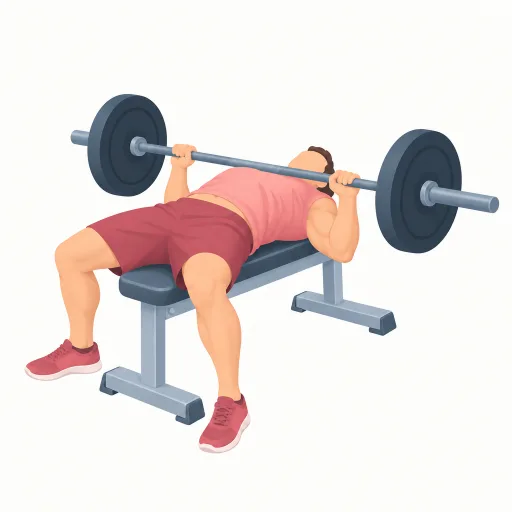
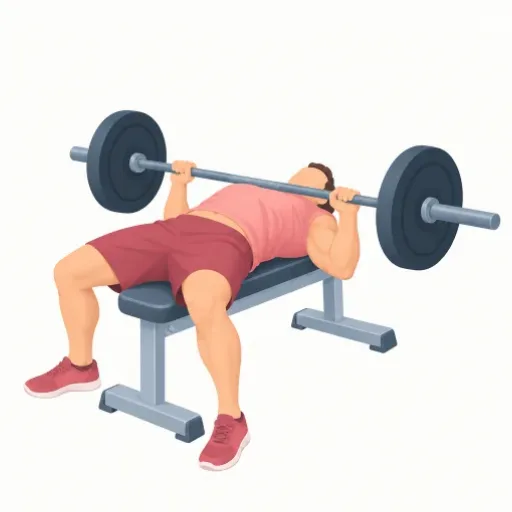
Press de banca: imagen final alineada con la inicial para que el banco no se mueva al alternarlas

Changed region(s): [[0.0312, 0.1875, 1.0, 0.9375], [0.4688, 0.6875, 0.5, 0.7188]]

diff --git a/CLAUDE.md b/CLAUDE.md
@@ -90,5 +90,5 @@ Primero PWA para uso propio; después App Store (iPhone). Si funciona, se podrí
 ## Imágenes de ejercicios
 
 - **Cómo se generan:** a partir de las dos fotos (posición inicial y final) de free-exercise-db (dominio público, Unlicense), redibujadas con OpenAI (`images.edit`, el mismo modelo y la misma clave que usa china-history, en `china-history-api/.env`; la clave solo se usa en local, nunca en el repo ni en la app). La imagen inicial sale de la foto 0 y la final de la ilustración inicial más la foto 1, para que figura y encuadre no cambien entre las dos. Estilo: ilustración plana, atleta sin cara con camiseta salmón y pantalón rosa oscuro, material en gris azulado, **sin fondo de gimnasio** y solo el material del ejercicio (sacarlo del campo `equipment`; si se lista material genérico en el prompt, el modelo lo dibuja todo).
-- **Dónde viven:** `apps/mobile/assets/exercises/<nombre-del-ejercicio>_0.webp` y `_1.webp`, a 512 px y unos 12 KB cada una, y se registran por nombre en `lib/exercise-images.ts`. De momento solo está «Press de banca con barra»; el resto se hará en tandas cuando guste el resultado. Pendiente: emparejar los 133 nombres del catálogo con los de free-exercise-db.
+- **Dónde viven:** `apps/mobile/assets/exercises/<nombre-del-ejercicio>_0.webp` y `_1.webp`, a 512 px y unos 12 KB cada una, y se registran por nombre en `lib/exercise-images.ts`. De momento solo está «Press de banca con barra»; el resto se hará en tandas cuando guste el resultado. **Alinear la imagen final con la inicial:** aunque se pase la ilustración inicial como referencia, el modelo recoloca un poco la escena (en el press de banca, ~17 px en vertical) y al alternarlas parece que el banco sube y baja. Se corrige a posteriori: se busca el desplazamiento y la escala de la imagen final que mejor encajan con la inicial sobre la zona casi inmóvil (mitad inferior: banco y pies) y se re-renderiza desplazada; el error de coincidencia bajó de 1327 a 113. Hacerlo para cada ejercicio nuevo antes de guardarlo. Pendiente: emparejar los 133 nombres del catálogo con los de free-exercise-db.
 
